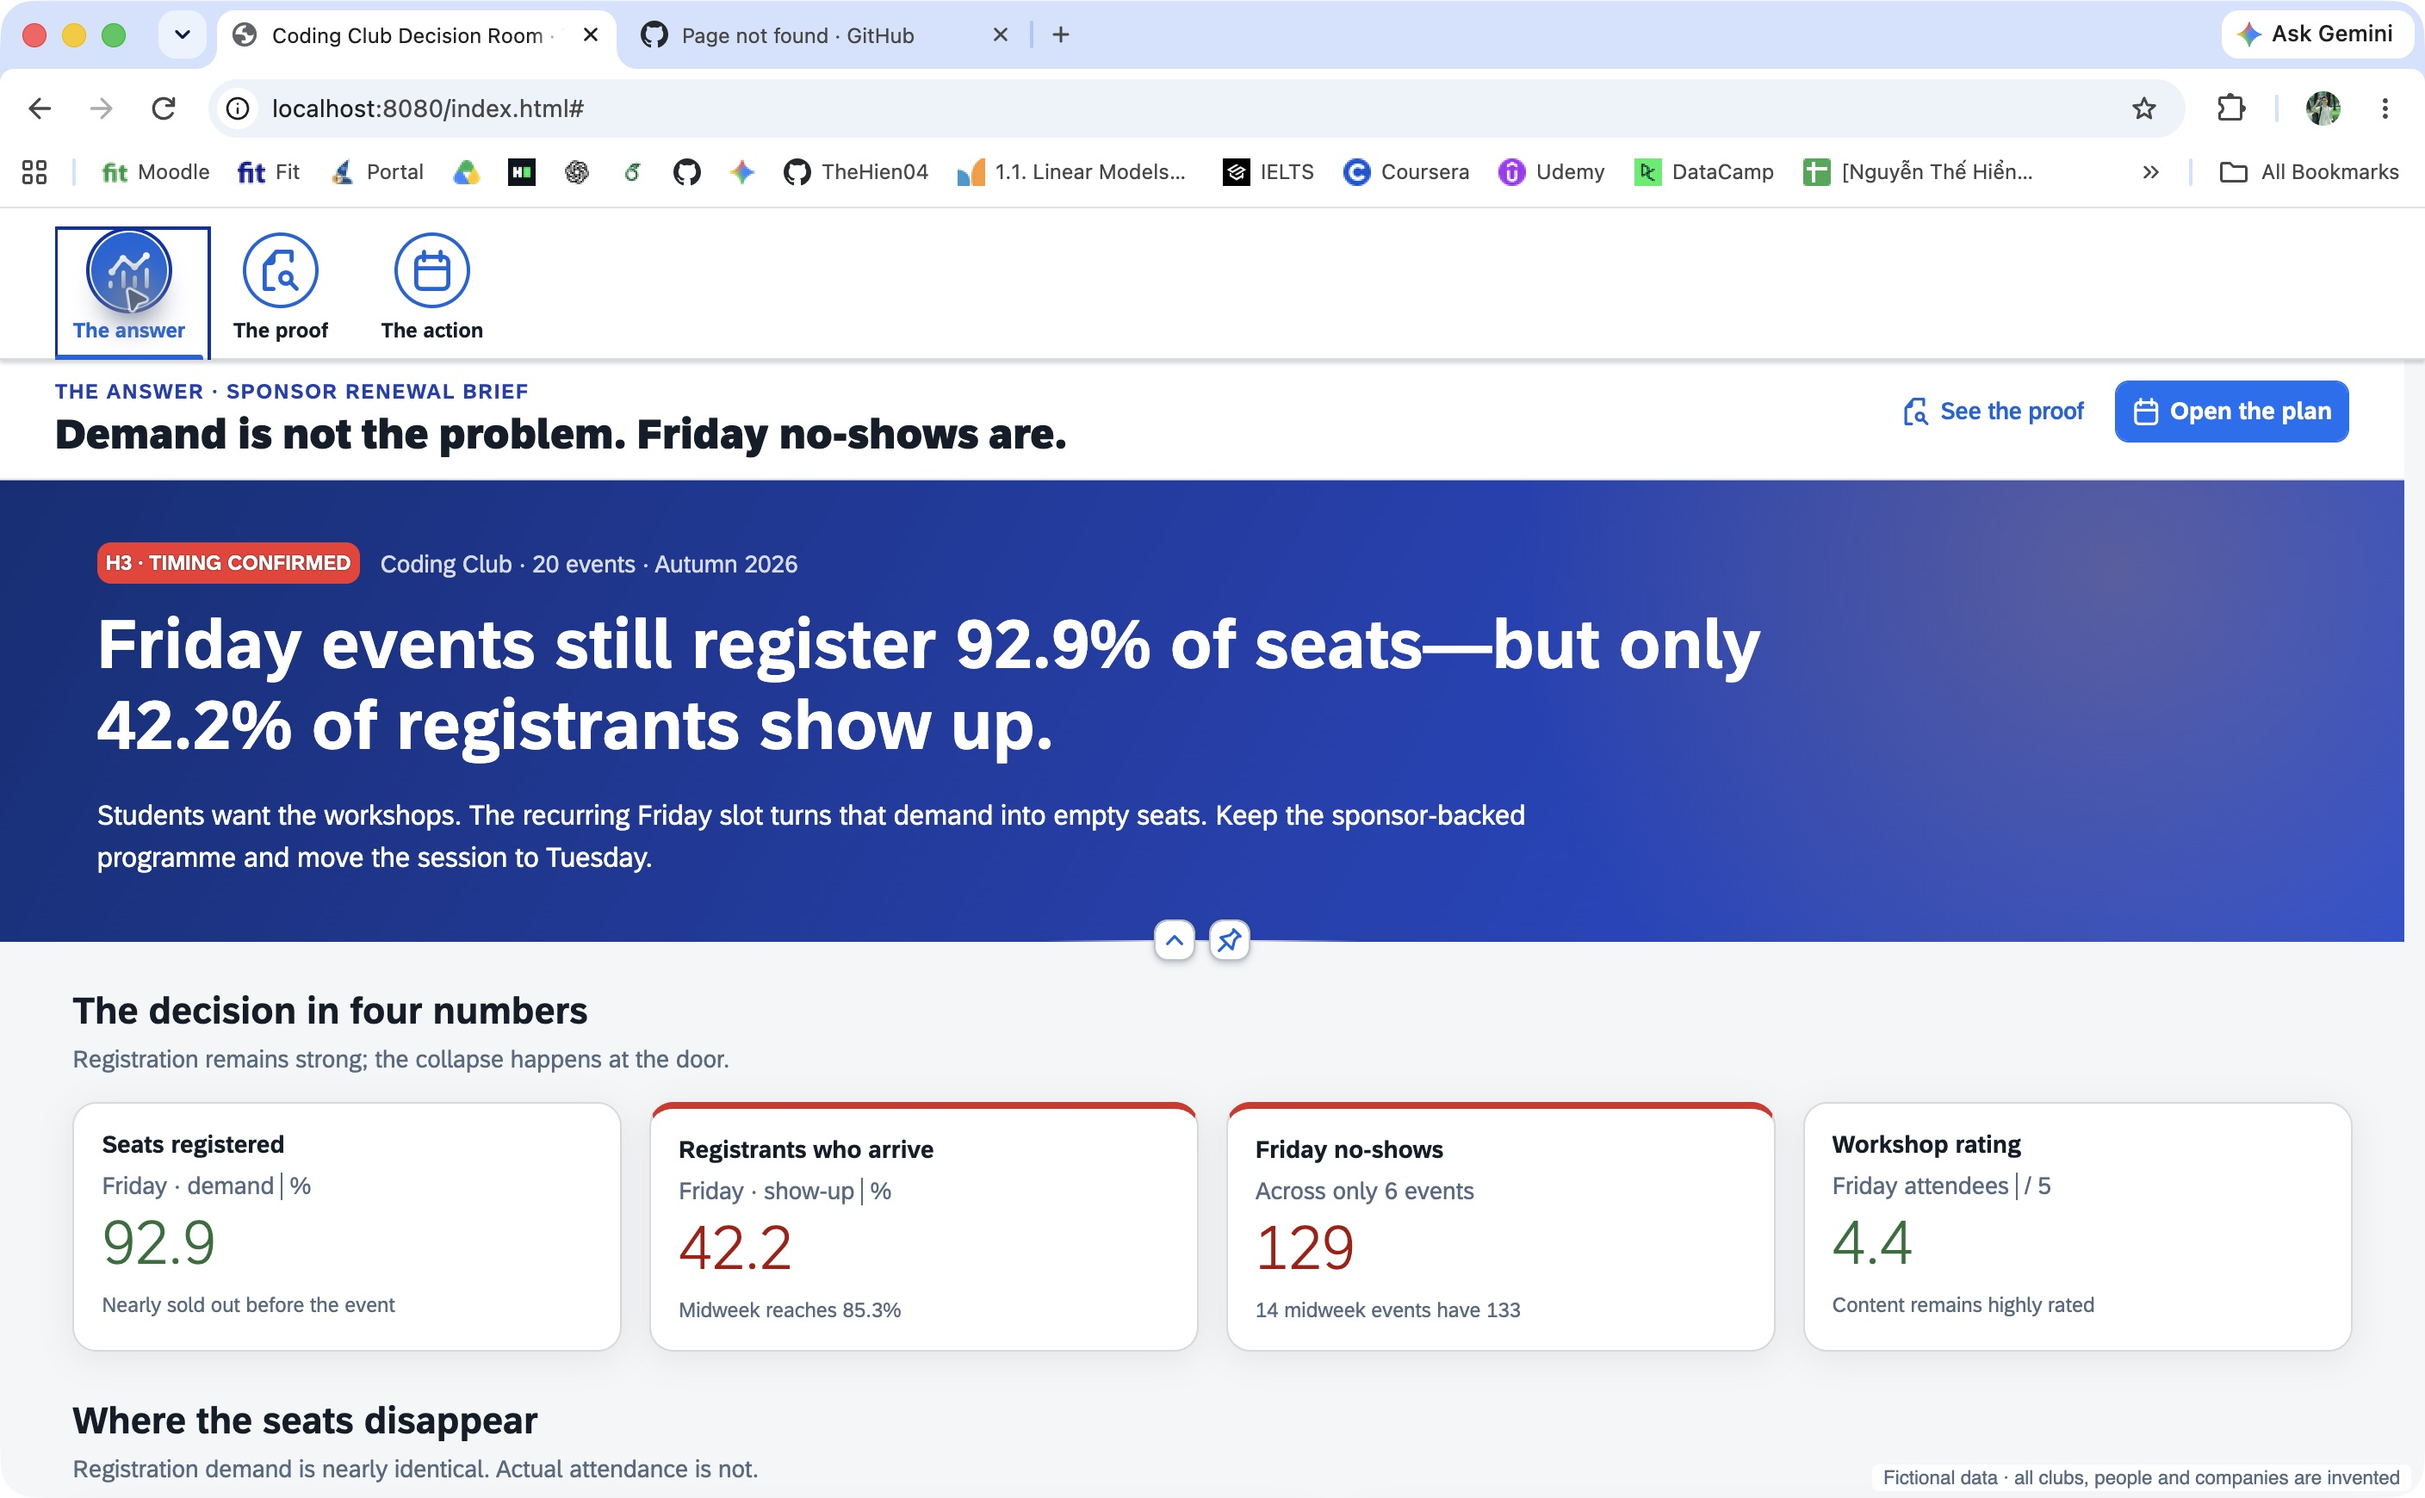
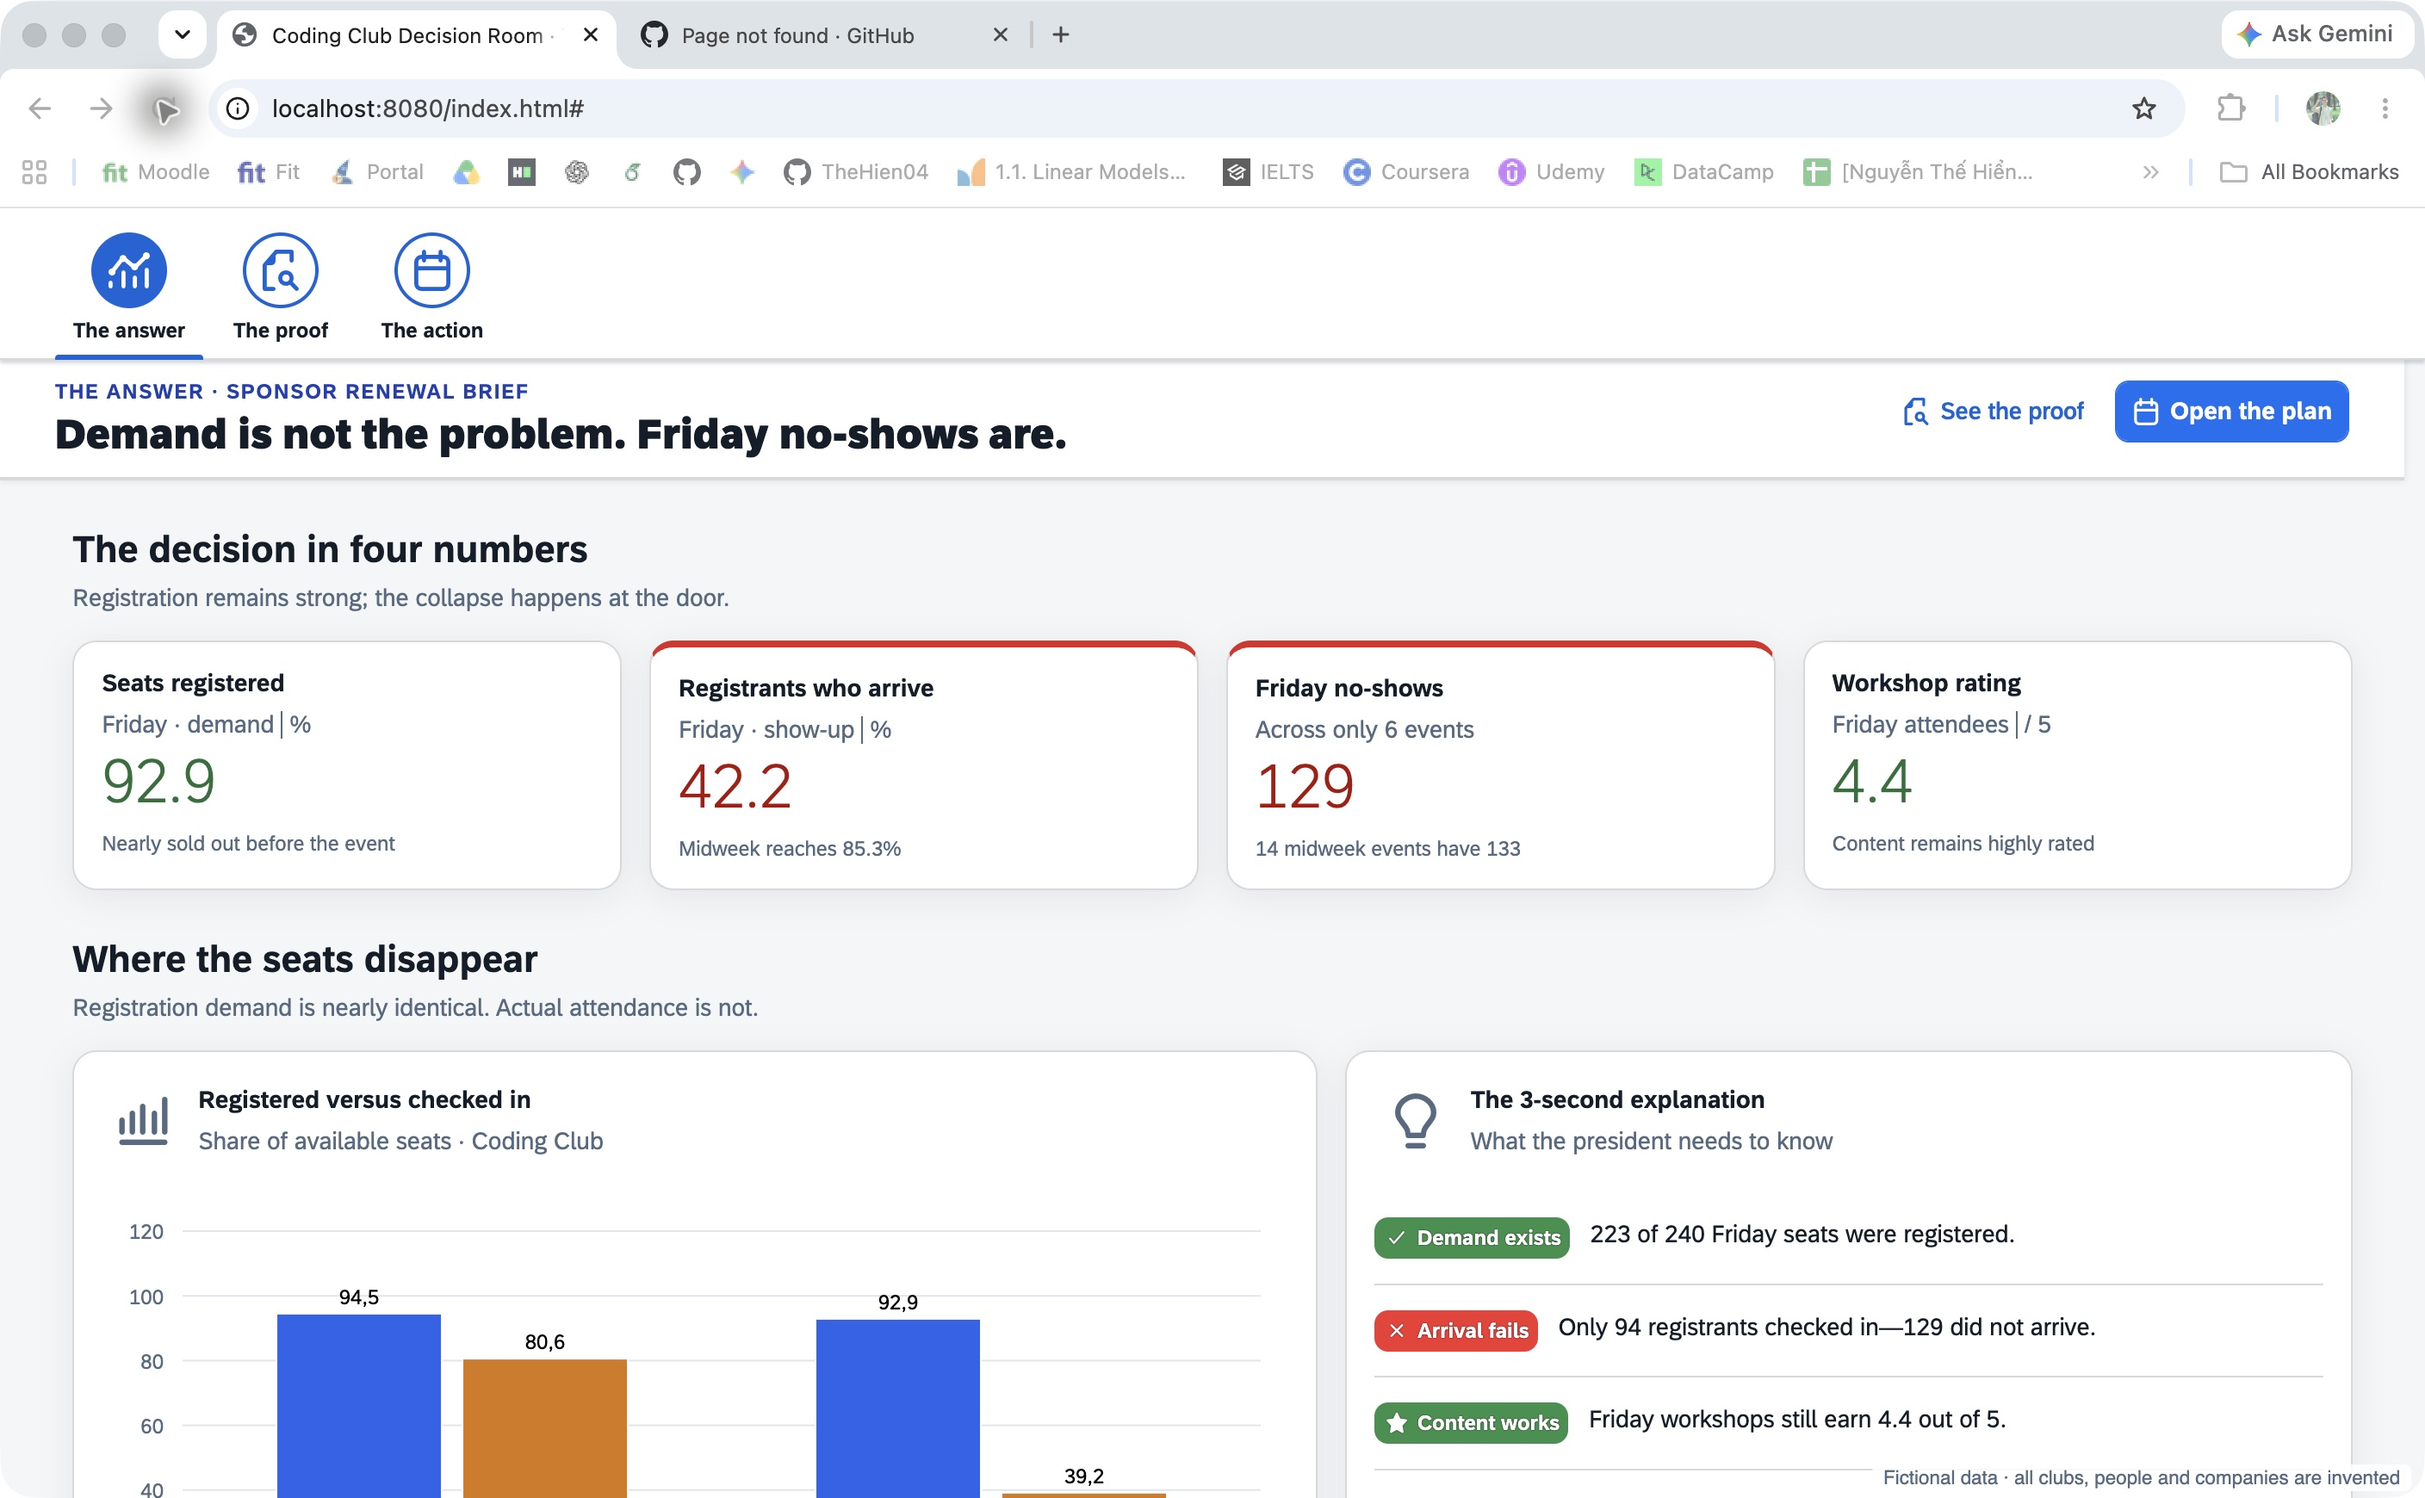
refactor: remove Page 1 hero panel

diff --git a/webapp/css/style.css b/webapp/css/style.css
@@ -32,50 +32,10 @@
   letter-spacing: 0.075em;
 }
 
-.storyHeader.sapFDynamicPageHeader,
 .planHeader.sapFDynamicPageHeader {
   padding: 0 !important;
   border: 0;
   box-shadow: none;
-}
-
-.heroContent {
-  box-sizing: border-box;
-  width: 100%;
-  padding: 2.25rem clamp(1rem, 4vw, 4rem);
-  color: #ffffff;
-  background:
-    radial-gradient(circle at 88% 20%, rgba(245, 158, 11, 0.25), transparent 28%),
-    linear-gradient(118deg, #0f2f78 0%, #1e40af 54%, #1d4ed8 100%);
-}
-
-.heroContent .sapMTitle,
-.heroContent .sapMText {
-  color: #ffffff !important;
-}
-
-.heroMeta {
-  gap: 0.75rem;
-  margin-bottom: 0.75rem;
-}
-
-.heroMeta .sapMText {
-  color: rgba(255, 255, 255, 0.82) !important;
-  font-size: 0.875rem;
-}
-
-.heroHeadline {
-  max-width: 64rem;
-  font-size: clamp(1.65rem, 3vw, 2.5rem) !important;
-  line-height: 1.18 !important;
-}
-
-.heroSummary {
-  max-width: 56rem;
-  margin-top: 0.75rem;
-  color: rgba(255, 255, 255, 0.88) !important;
-  font-size: 1rem !important;
-  line-height: 1.55 !important;
 }
 
 .wsPageContent {
@@ -304,10 +264,6 @@
 }
 
 @media (max-width: 48rem) {
-  .heroContent {
-    padding: 1.5rem 1rem;
-  }
-
   .wsPageContent {
     padding: 1.25rem 0.75rem 2rem;
   }
